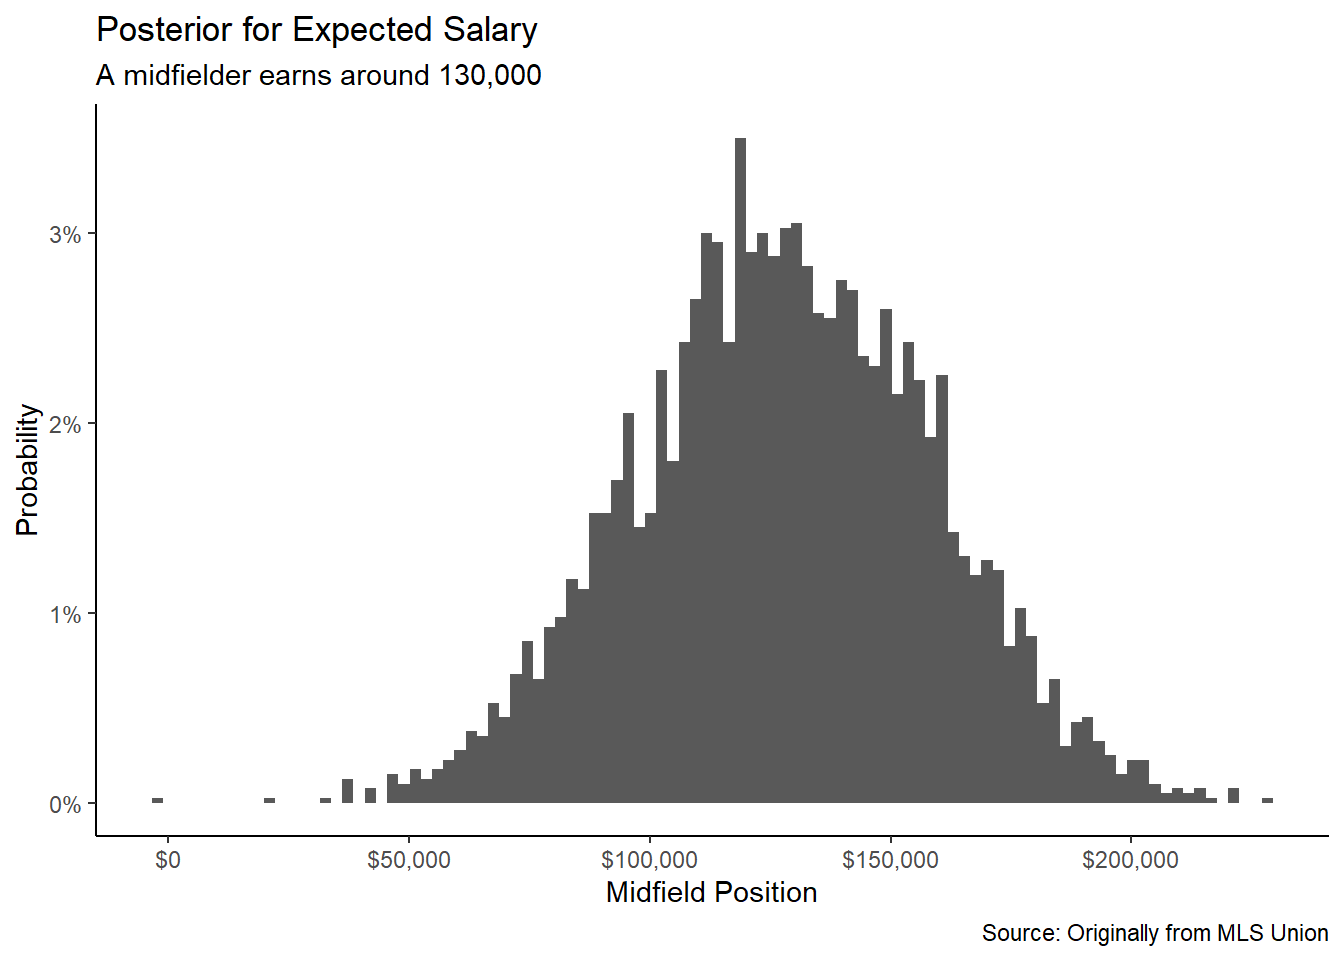
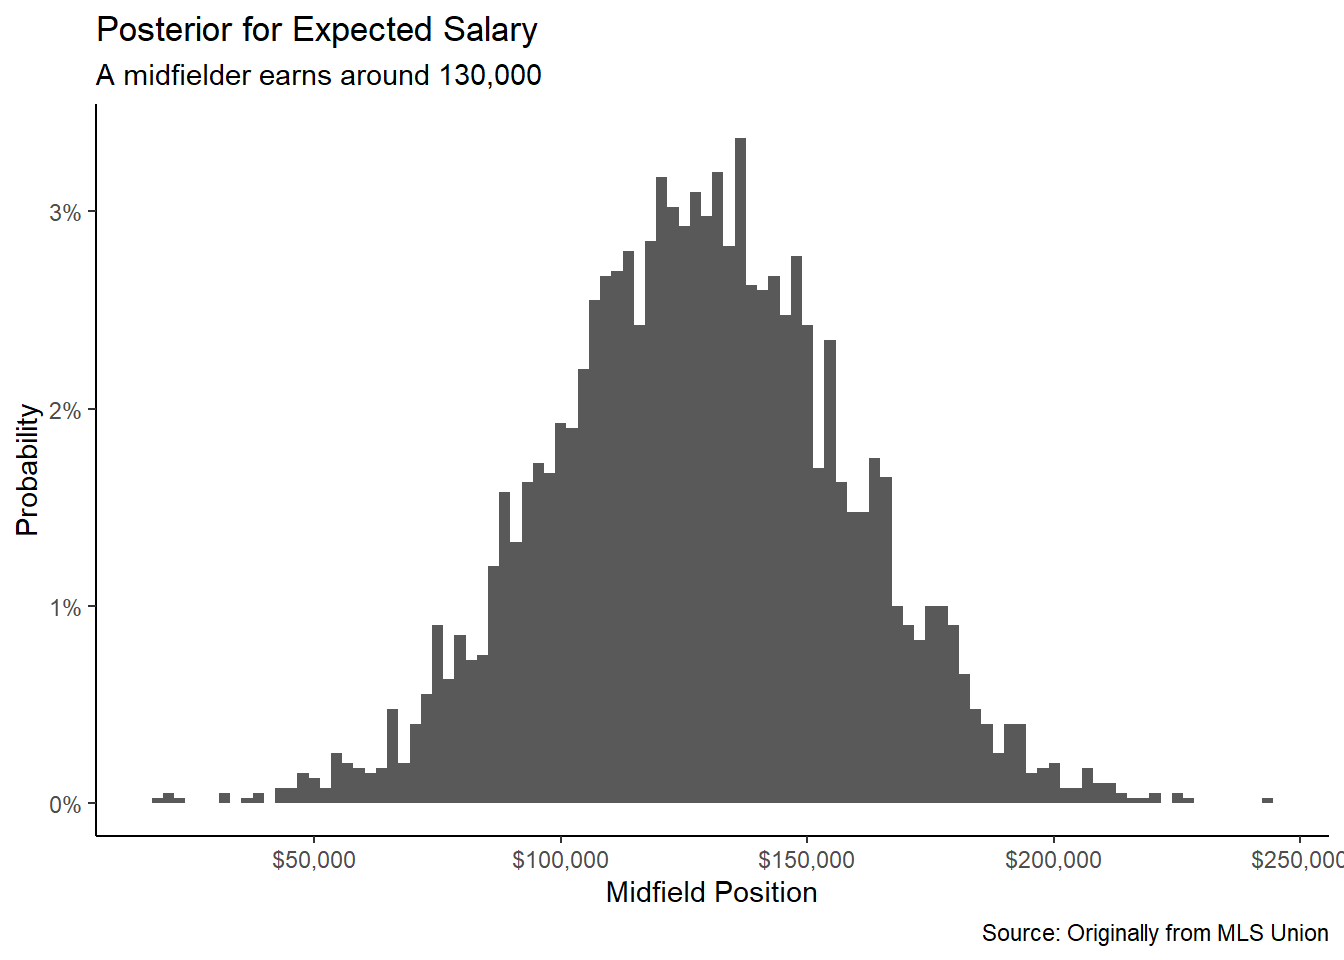
thrid commit

diff --git a/_site/models.html b/_site/models.html
@@ -184,20 +184,20 @@ ul.task-list li input[type="checkbox"] {
  predictors:   10
 ------
             Median   MAD_SD  
-(Intercept)  67045.9  33514.7
-positionD-F -33576.6 330082.0
-positionD-M  19919.9 153397.1
-positionF    80224.1  50788.6
-positionF-D -61899.8 334690.9
-positionF-M -28653.4 175422.8
-positionGK  -12165.2  62077.7
-positionM    60647.6  44337.2
-positionM-D  30166.2 140825.2
-positionM-F   6753.5 109906.2
+(Intercept)  67155.4  35496.3
+positionD-F -24018.4 344581.5
+positionD-M  19635.2 156784.1
+positionF    81628.8  51005.2
+positionF-D -52553.6 329295.2
+positionF-M -30998.5 168324.8
+positionGK  -10259.3  61978.1
+positionM    60957.2  45201.3
+positionM-D  36286.6 137177.7
+positionM-F   6136.0 106641.3
 
 Auxiliary parameter(s):
       Median   MAD_SD  
-sigma 336262.3  12440.8
+sigma 335501.7  12286.2
 
 ------
 * For help interpreting the printed output see ?print.stanreg

diff --git a/_site/midfield.html b/_site/midfield.html
@@ -7,7 +7,7 @@
 <meta name="viewport" content="width=device-width, initial-scale=1.0, user-scalable=yes">
 
 
-<title>Final-Project - Midfield</title>
+<title>Soccer Player Income vs Field Position - Midfield</title>
 <style>
 code{white-space: pre-wrap;}
 span.smallcaps{font-variant: small-caps;}
@@ -71,7 +71,7 @@ ul.task-list li input[type="checkbox"] {
       <div class="navbar-container container-fluid">
       <div class="navbar-brand-container">
     <a class="navbar-brand" href="./index.html">
-    <span class="navbar-title">Final-Project</span>
+    <span class="navbar-title">Soccer Player Income vs Field Position</span>
     </a>
   </div>
             <div id="quarto-search" class="" title="Search"></div>
